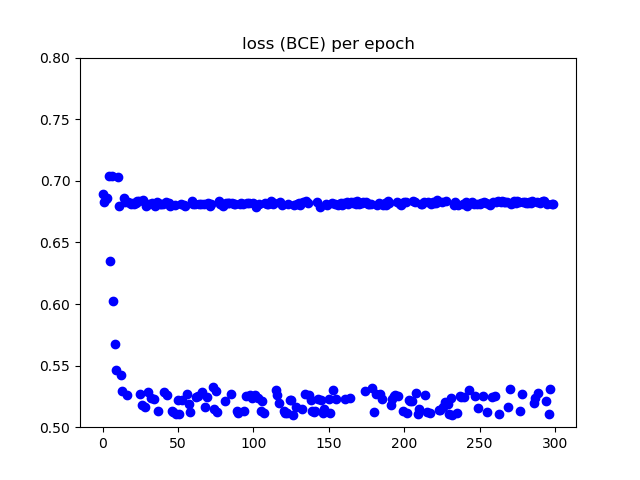
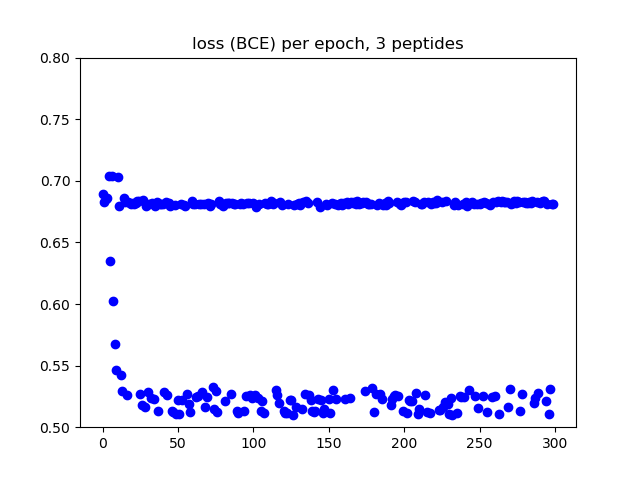
loss function over time

Changed region(s): [[0.2812, 0.0625, 0.7188, 0.125]]

diff --git a/loss_graphics.py b/loss_graphics.py
@@ -1,0 +1,18 @@
+import matplotlib.pyplot as plt
+
+loss = []
+
+with open('epoch_loss', 'r') as file:
+    for i in range(1200):
+        line = file.readline()
+    for j in range(1):
+        loss.append([])
+        for i in range(300):
+            line = file.readline()
+            loss_value = float(line.split()[-1])
+            loss[j].append(loss_value)
+        plt.plot(range(300), loss[j], 'bo')
+        plt.ylim(0.5, 0.8)
+
+plt.title("loss (BCE) per epoch, 3 peptides")
+plt.show()
